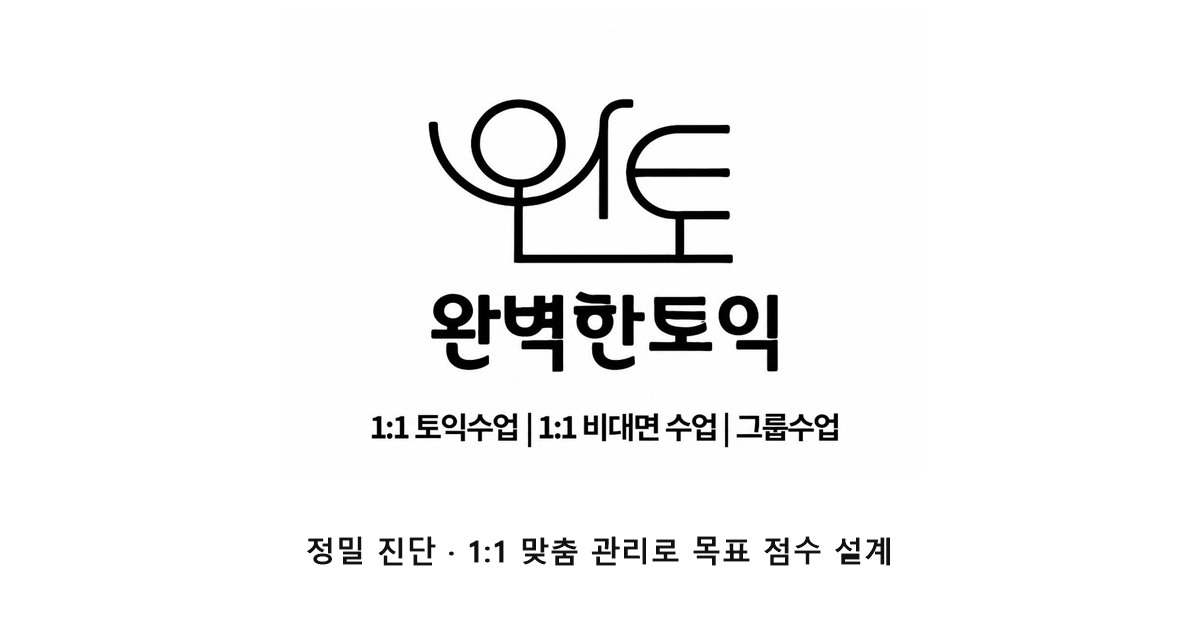
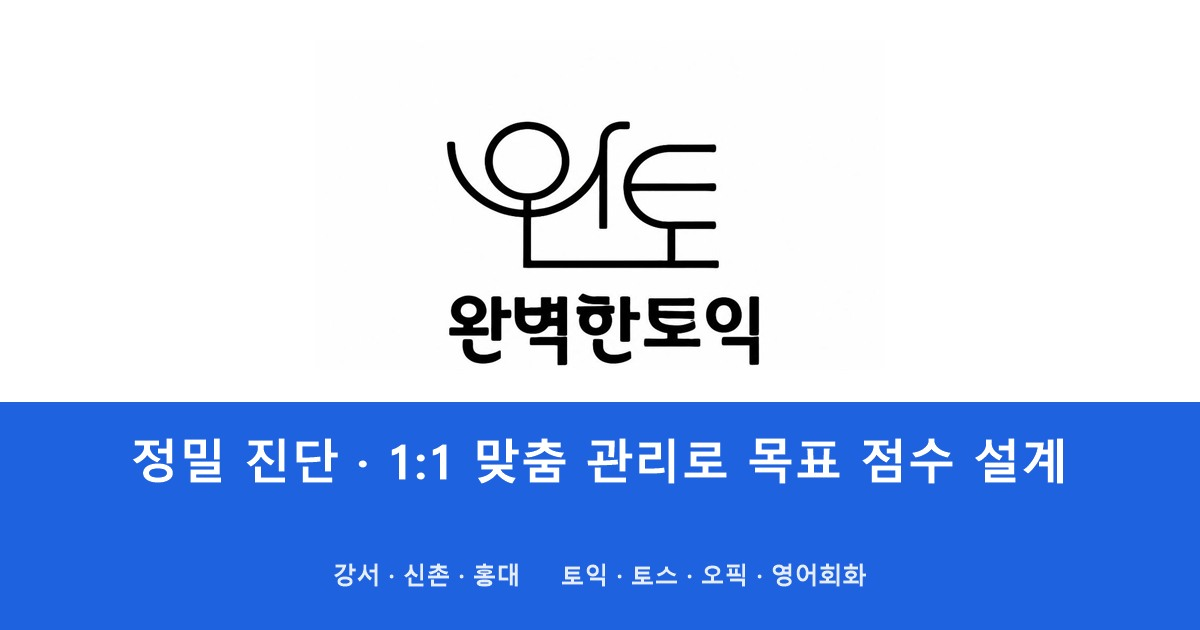
OG 배너 재디자인(파란 띠+큰 문구) + 제목 3단 구성 + 이미지 캐시 v3

diff --git a/index.html b/index.html
@@ -1,7 +1,7 @@
 <!doctype html><html lang="ko"><head>
 <meta charset="utf-8">
 <meta name="viewport" content="width=device-width,initial-scale=1">
-<title>완벽한토익 | 강서·신촌·홍대 토익·토익스피킹·오픽·영어회화 전문</title>
+<title>완벽한토익 | 강서·신촌·홍대 | 토익·토익스피킹·오픽·영어회화</title>
 <meta name="description" content="완벽한토익 - 서울 강서·신촌·홍대 토익·토익스피킹·오픽·영어회화 전문. 정밀 레벨 진단과 1:1 맞춤 관리로 목표 점수를 설계합니다. 무료 상담 신청.">
 <meta name="keywords" content="완벽한토익, 토익, 강서 토익, 신촌 토익, 홍대 토익, 토익스피킹, 오픽, 영어회화, 1:1 토익, 토익 과외, 토익 900">
 <meta name="author" content="완벽한토익">
@@ -11,17 +11,17 @@
 <link rel="canonical" href="https://perfect-toeic.com/">
 <meta property="og:type" content="website">
 <meta property="og:site_name" content="완벽한토익">
-<meta property="og:title" content="완벽한토익 | 강서·신촌·홍대 토익·토익스피킹·오픽·영어회화">
+<meta property="og:title" content="완벽한토익 | 강서·신촌·홍대 | 토익·토스·오픽·영어회화">
 <meta property="og:description" content="정밀 진단 + 1:1 맞춤 관리로 토익·토익스피킹·오픽·영어회화 목표 점수를 설계합니다. 무료 상담 신청.">
 <meta property="og:url" content="https://perfect-toeic.com/">
-<meta property="og:image" content="https://perfect-toeic.com/og.jpg?v=2">
+<meta property="og:image" content="https://perfect-toeic.com/og.jpg?v=3">
 <meta property="og:image:width" content="1200">
 <meta property="og:image:height" content="630">
 <meta property="og:locale" content="ko_KR">
 <meta name="twitter:card" content="summary_large_image">
-<meta name="twitter:title" content="완벽한토익 | 강서·신촌·홍대 토익·토익스피킹·오픽·영어회화">
+<meta name="twitter:title" content="완벽한토익 | 강서·신촌·홍대 | 토익·토스·오픽·영어회화">
 <meta name="twitter:description" content="정밀 진단 + 1:1 맞춤 관리로 목표 점수를 설계합니다.">
-<meta name="twitter:image" content="https://perfect-toeic.com/og.jpg?v=2">
+<meta name="twitter:image" content="https://perfect-toeic.com/og.jpg?v=3">
 <script type="application/ld+json">{"@context":"https://schema.org","@type":"EducationalOrganization","name":"완벽한토익","alternateName":"Perfect TOEIC","url":"https://perfect-toeic.com/","logo":"https://perfect-toeic.com/og.jpg","image":"https://perfect-toeic.com/og.jpg","description":"서울 강서·신촌·홍대 토익·토익스피킹·오픽·영어회화 전문","telephone":"[phone redacted]","address":{"@type":"PostalAddress","streetAddress":"연세로2길 14, 4층","addressLocality":"서대문구","addressRegion":"서울","addressCountry":"KR"},"sameAs":["https://blog.naver.com/perfect-toeic","https://instagram.com/perfect_toeic","https://pf.kakao.com/_JCLYG"]}</script>
 </head><body>
 <style>